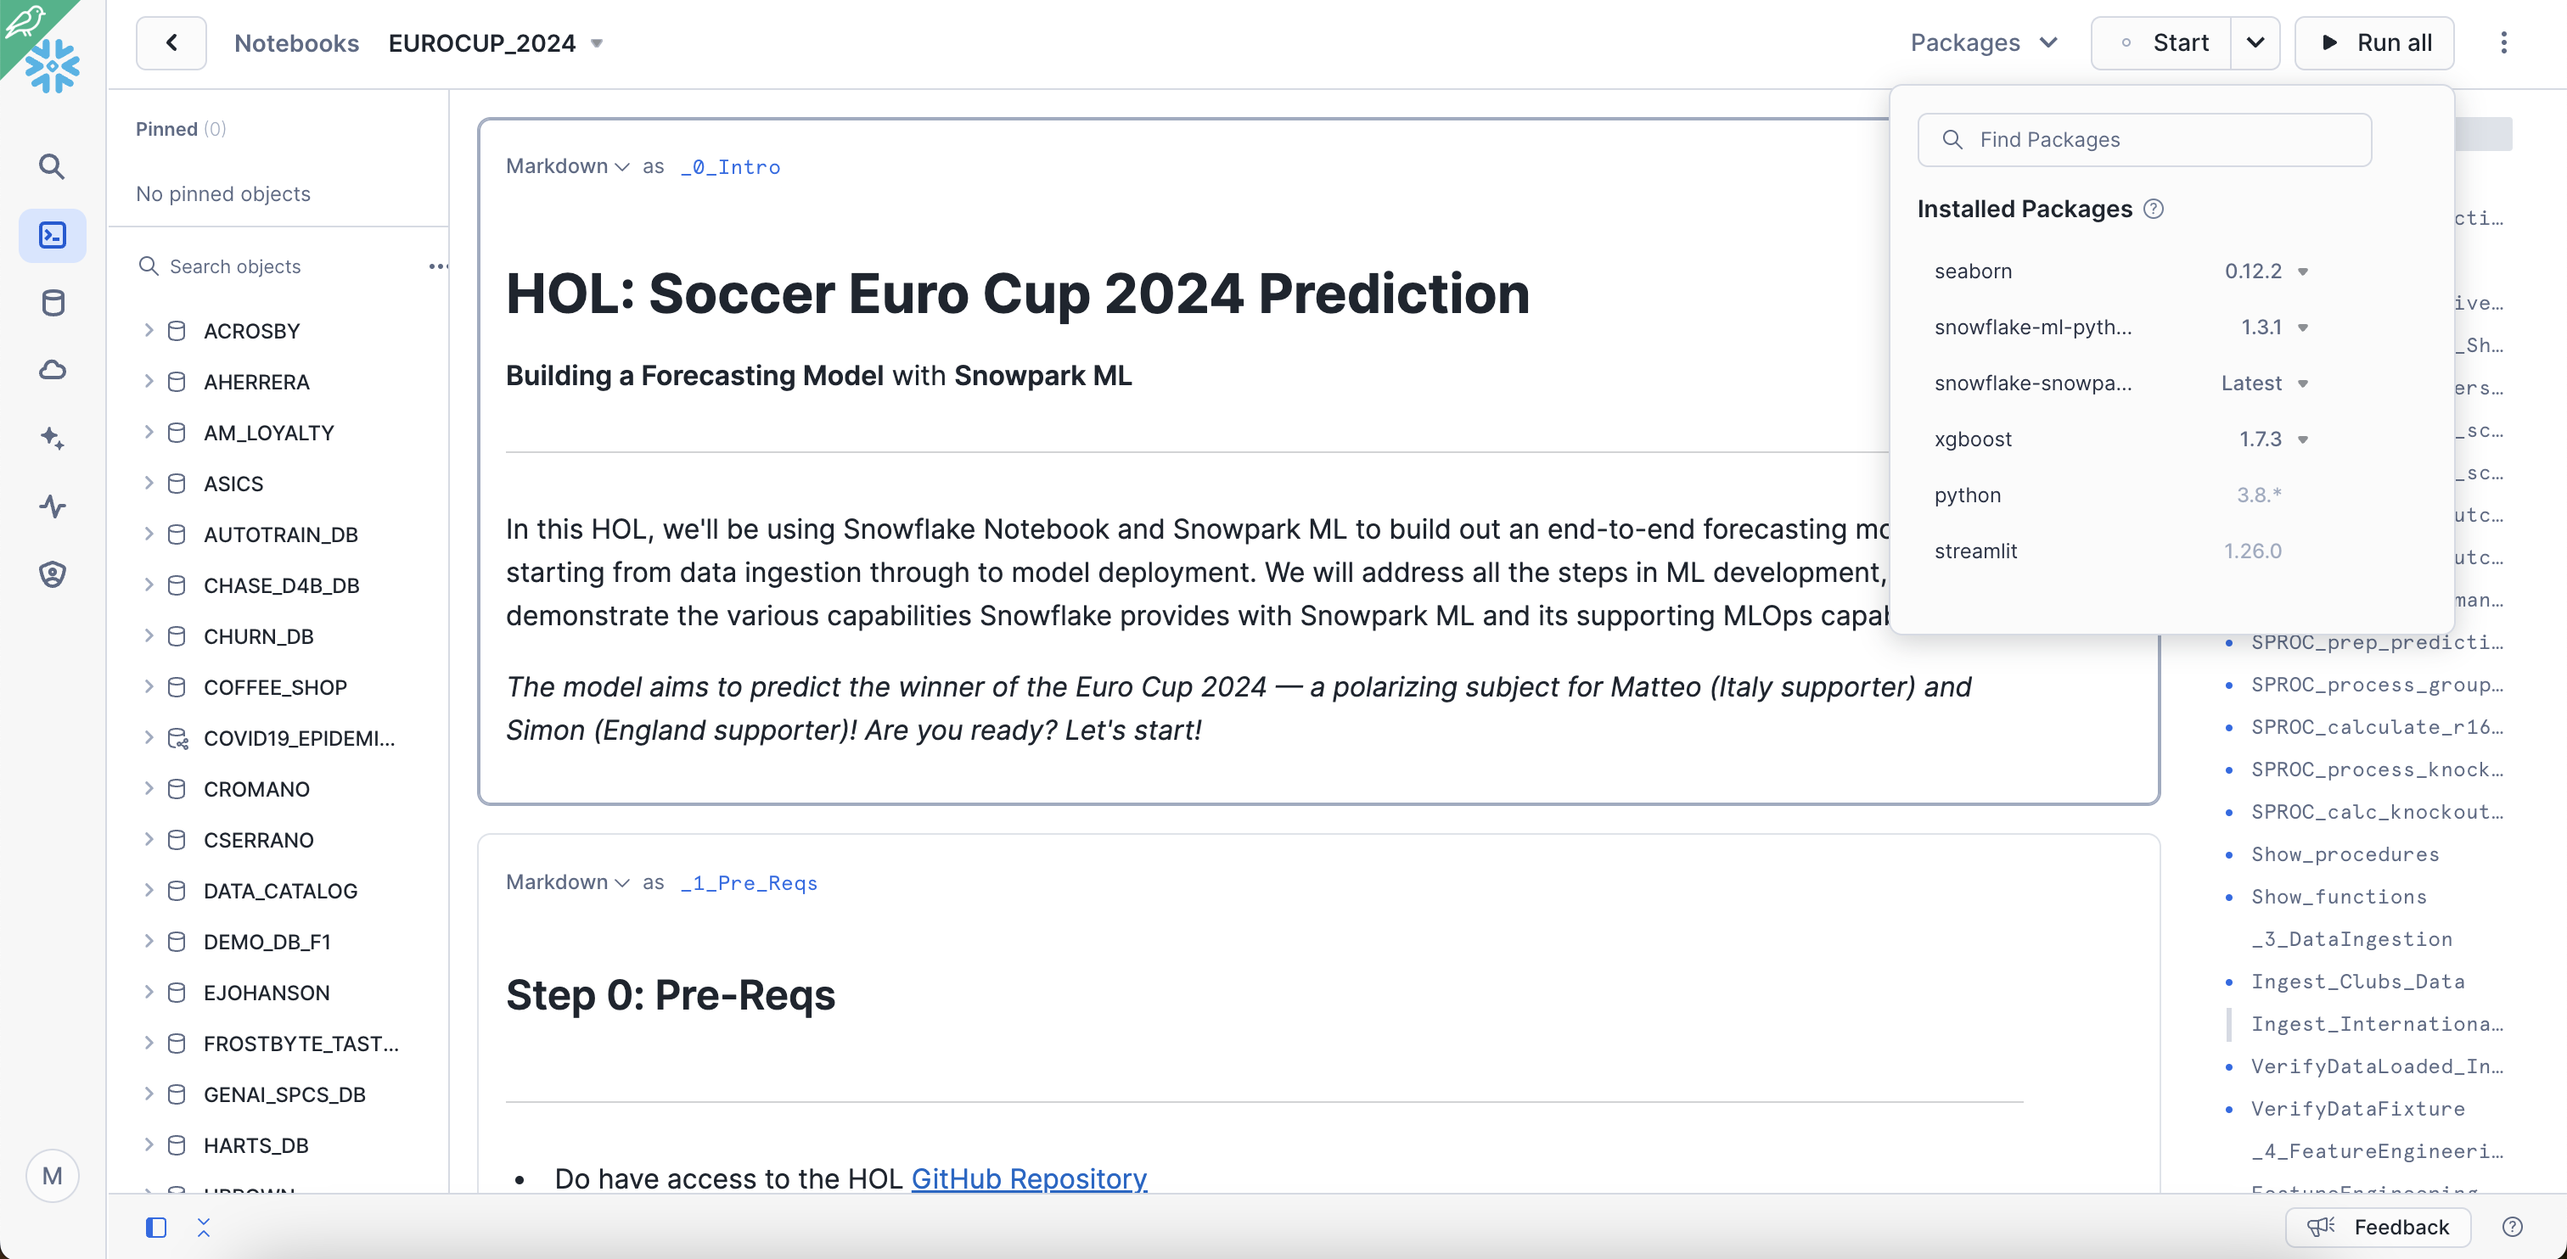
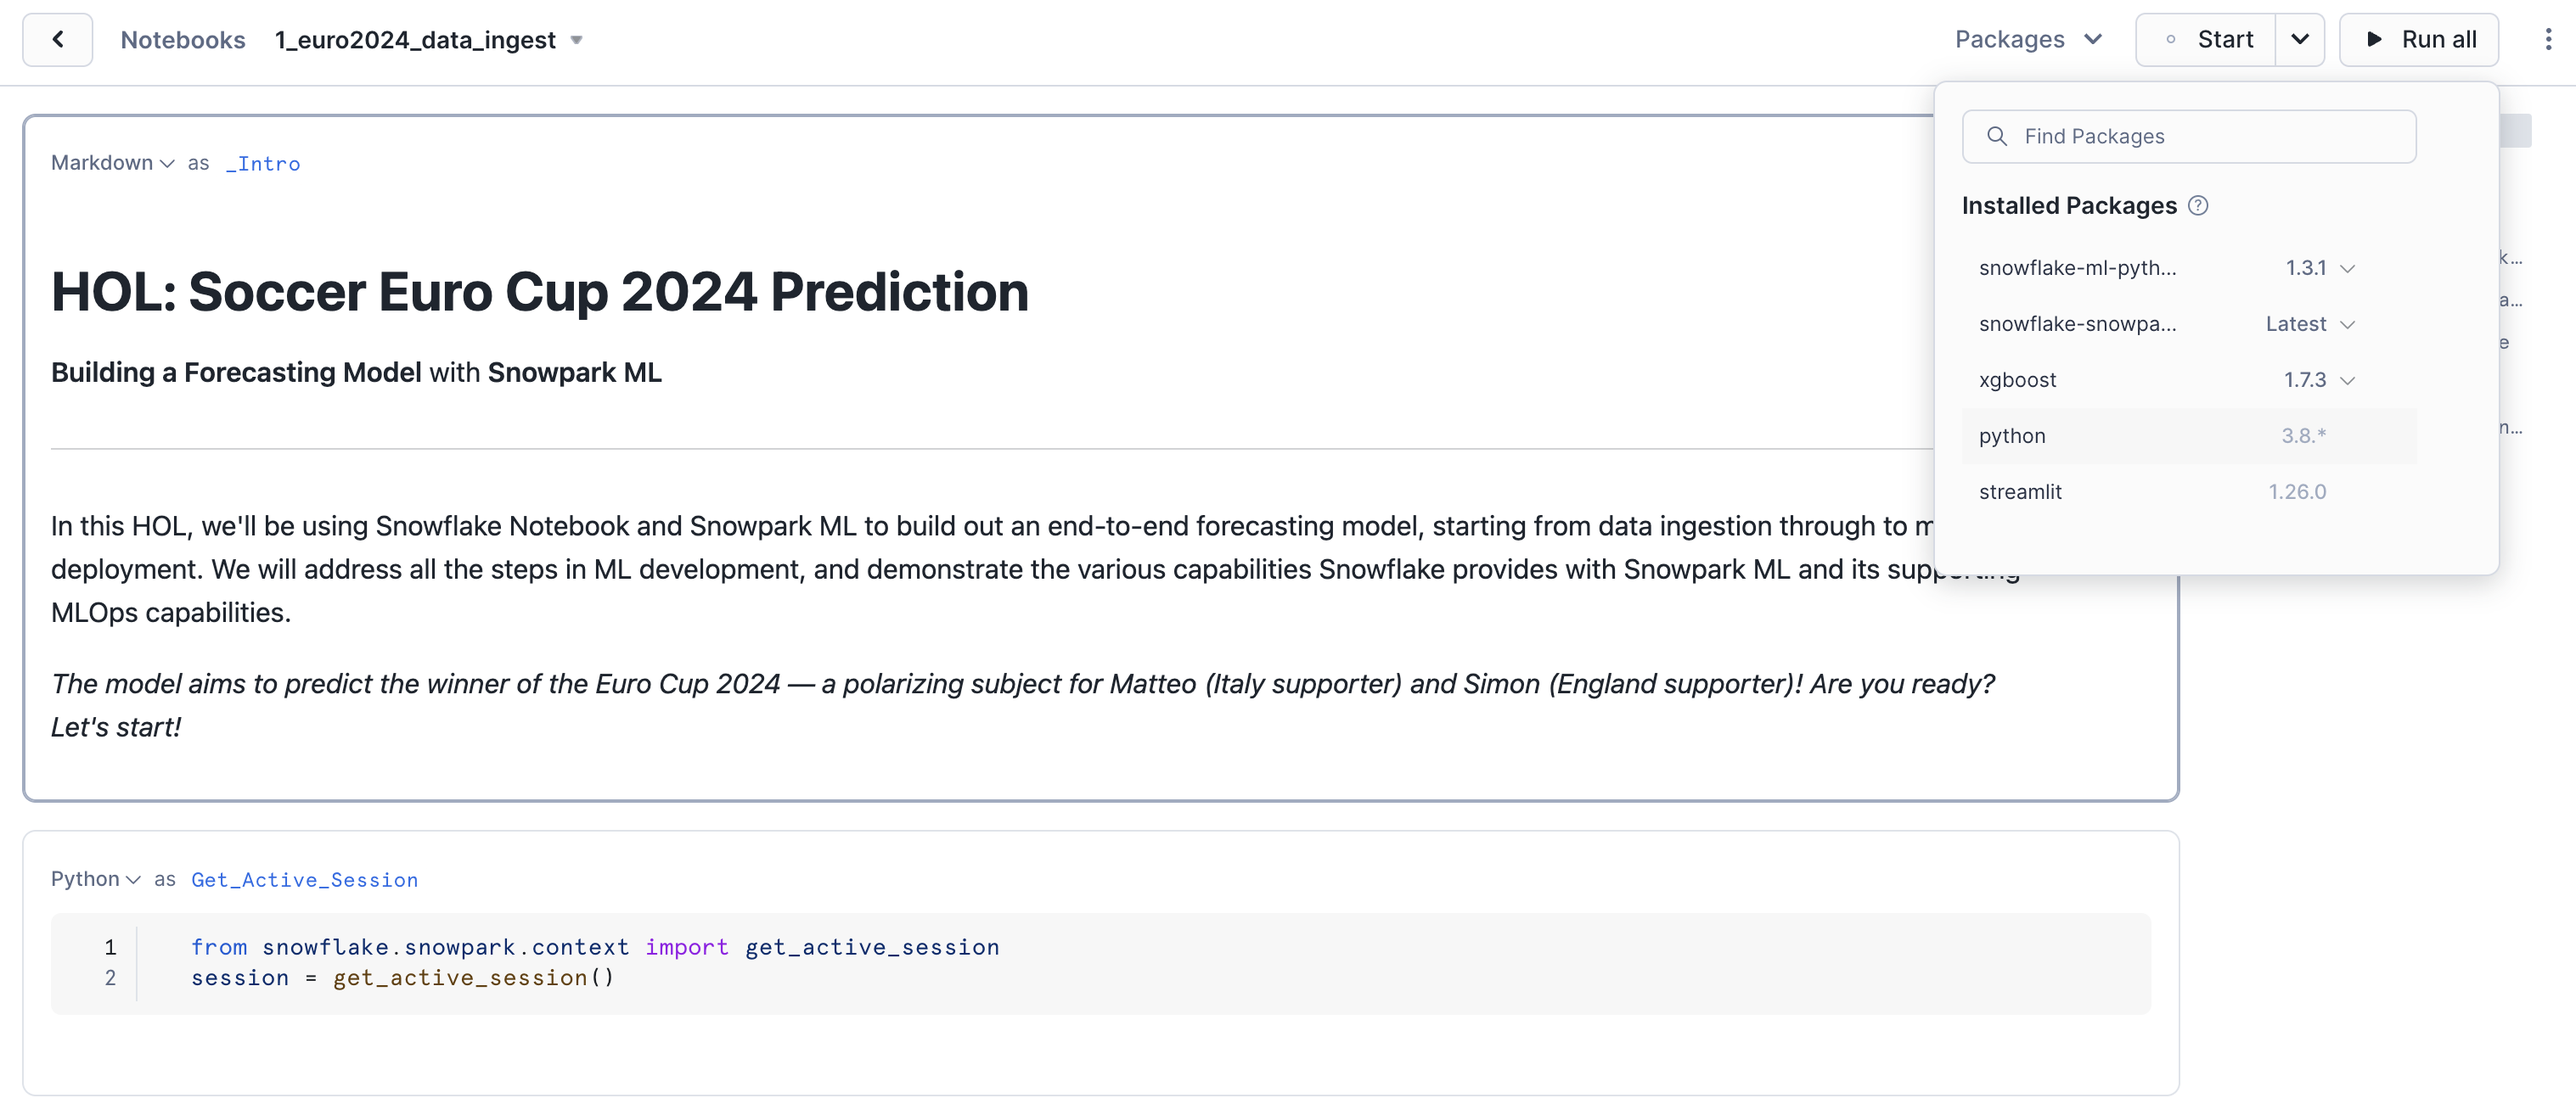
more tweaks, warehosue rename, and added a cortex cell

diff --git a/README.md b/README.md
@@ -1,7 +1,7 @@
 # SOCCER EURO 2024 PREDICTION: Building a Prediction Model with Snowpark ML (Summit:AI216)
 Join this introductory session on using Snowpark ML to build out an end-to-end prediction pipeline, starting from data ingestion through to model deployment and inference. We will address all the steps in ML development, and demonstrate the various capabilities Snowflake provides with Snowpark ML and its supporting MLOps capabilities. The model aims to predict the winner of the Euro 2024 — a polarizing subject for Matteo (Italy supporter) and Simon (England supporter)!
 
-![Banner](https://github.com/sfc-gh-mconsoli/summit_2024_hol_AI216/blob/main/images/readme_banner.png)
+![Banner](https://github.com/Snowflake-Labs/sfguide-sporting-events-prediction-using-snowpark-ml/blob/main/images/readme_banner.png)
 
 ## Repository Contents
 
@@ -19,7 +19,7 @@ Before you begin, ensure you have the following:
 
 - Access to the HOL GitHub Repository: [Summit 2024 HOL Repository](https://github.com/Snowflake-Labs/sfguide-sporting-events-prediction-using-snowpark-ml)
 - An active Snowflake Trial Account with ACCOUNTADMIN role granted
-- Clone / download the whole GitHub Repo locally. During the Setup, you'll need the `dataset` folder and the `eurocup_2024.ipynb` to finalize the HOL pre-work.
+- Clone / download the whole GitHub Repo locally. During the Setup, you'll need the `dataset` folder and the `notebooks` folder to finalize the HOL pre-work.
 
 ### 1. Setup Objects (DB, Schema, Tables, Stages)
 
@@ -31,7 +31,7 @@ Ensure to push the dataset into Snowflake stages prior to the on-site session, a
 
 Below are the steps to push data via the UI (alternatively, you can use `PUT` command via command line: https://docs.snowflake.com/en/sql-reference/sql/put)
 
-1. Navigate to Data -> DB `SUMMIT_EURO2024`, Schema: `Public` -> Stage: `DATA`.
+1. Navigate to Data -> DB `EURO2024`, Schema: `Public` -> Stage: `DATA`.
 2. Use the warehouse created to list files on the stage.
 3. Click on the top right button to add new files.
 4. Select dataset files you downloaded from this GitHub Repo and push them in the stage folder. Click on the button upload. 
@@ -42,11 +42,9 @@ You can follow steps described in the official docs: https://docs.snowflake.com/
 ### 3. Import Notebook and Install Packages
 - Click on Projects -> Notebook
 - Import the notebooks located in the `/notebooks` folder by using the import button on the top right.
-- As you import, select the database `SUMMIT_EURO2024`, the schema `PUBLIC` and the `SUMMIT_EURO2024_WH` created from the `setup.sql` script.
+- As you import, select the database `EURO2024`, the schema `PUBLIC` and the `EURO2024_WH` created from the `setup.sql` script.
 - Once the notebook has been imported, include these packages by using the "Packages" button on the top right:
 
-  - matplotlib
-  - seaborn
   - snowflake-ml-python
   - snowflake-snowpark-python
   - xgboost
